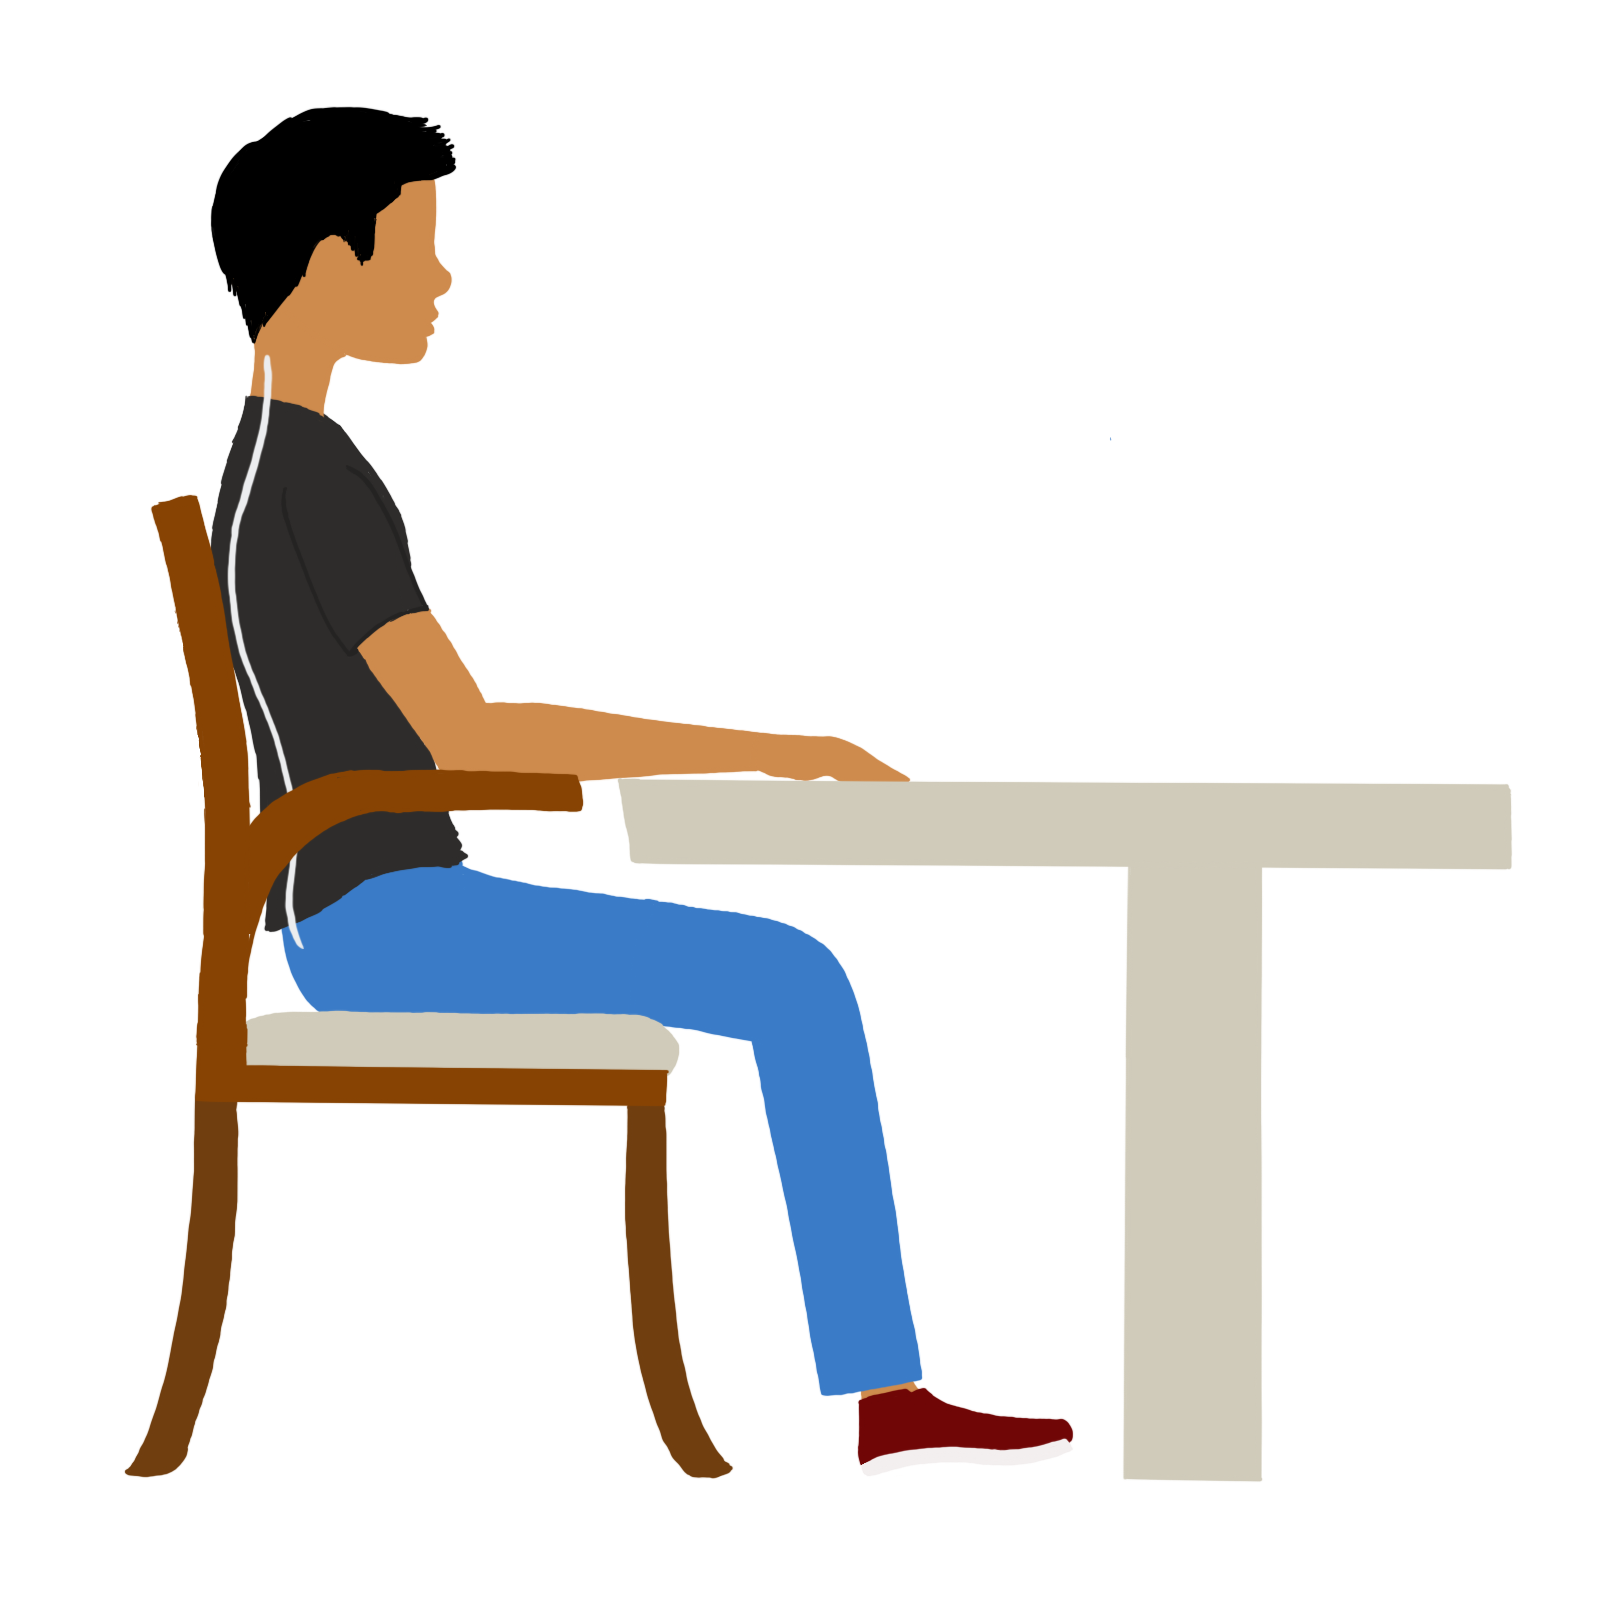
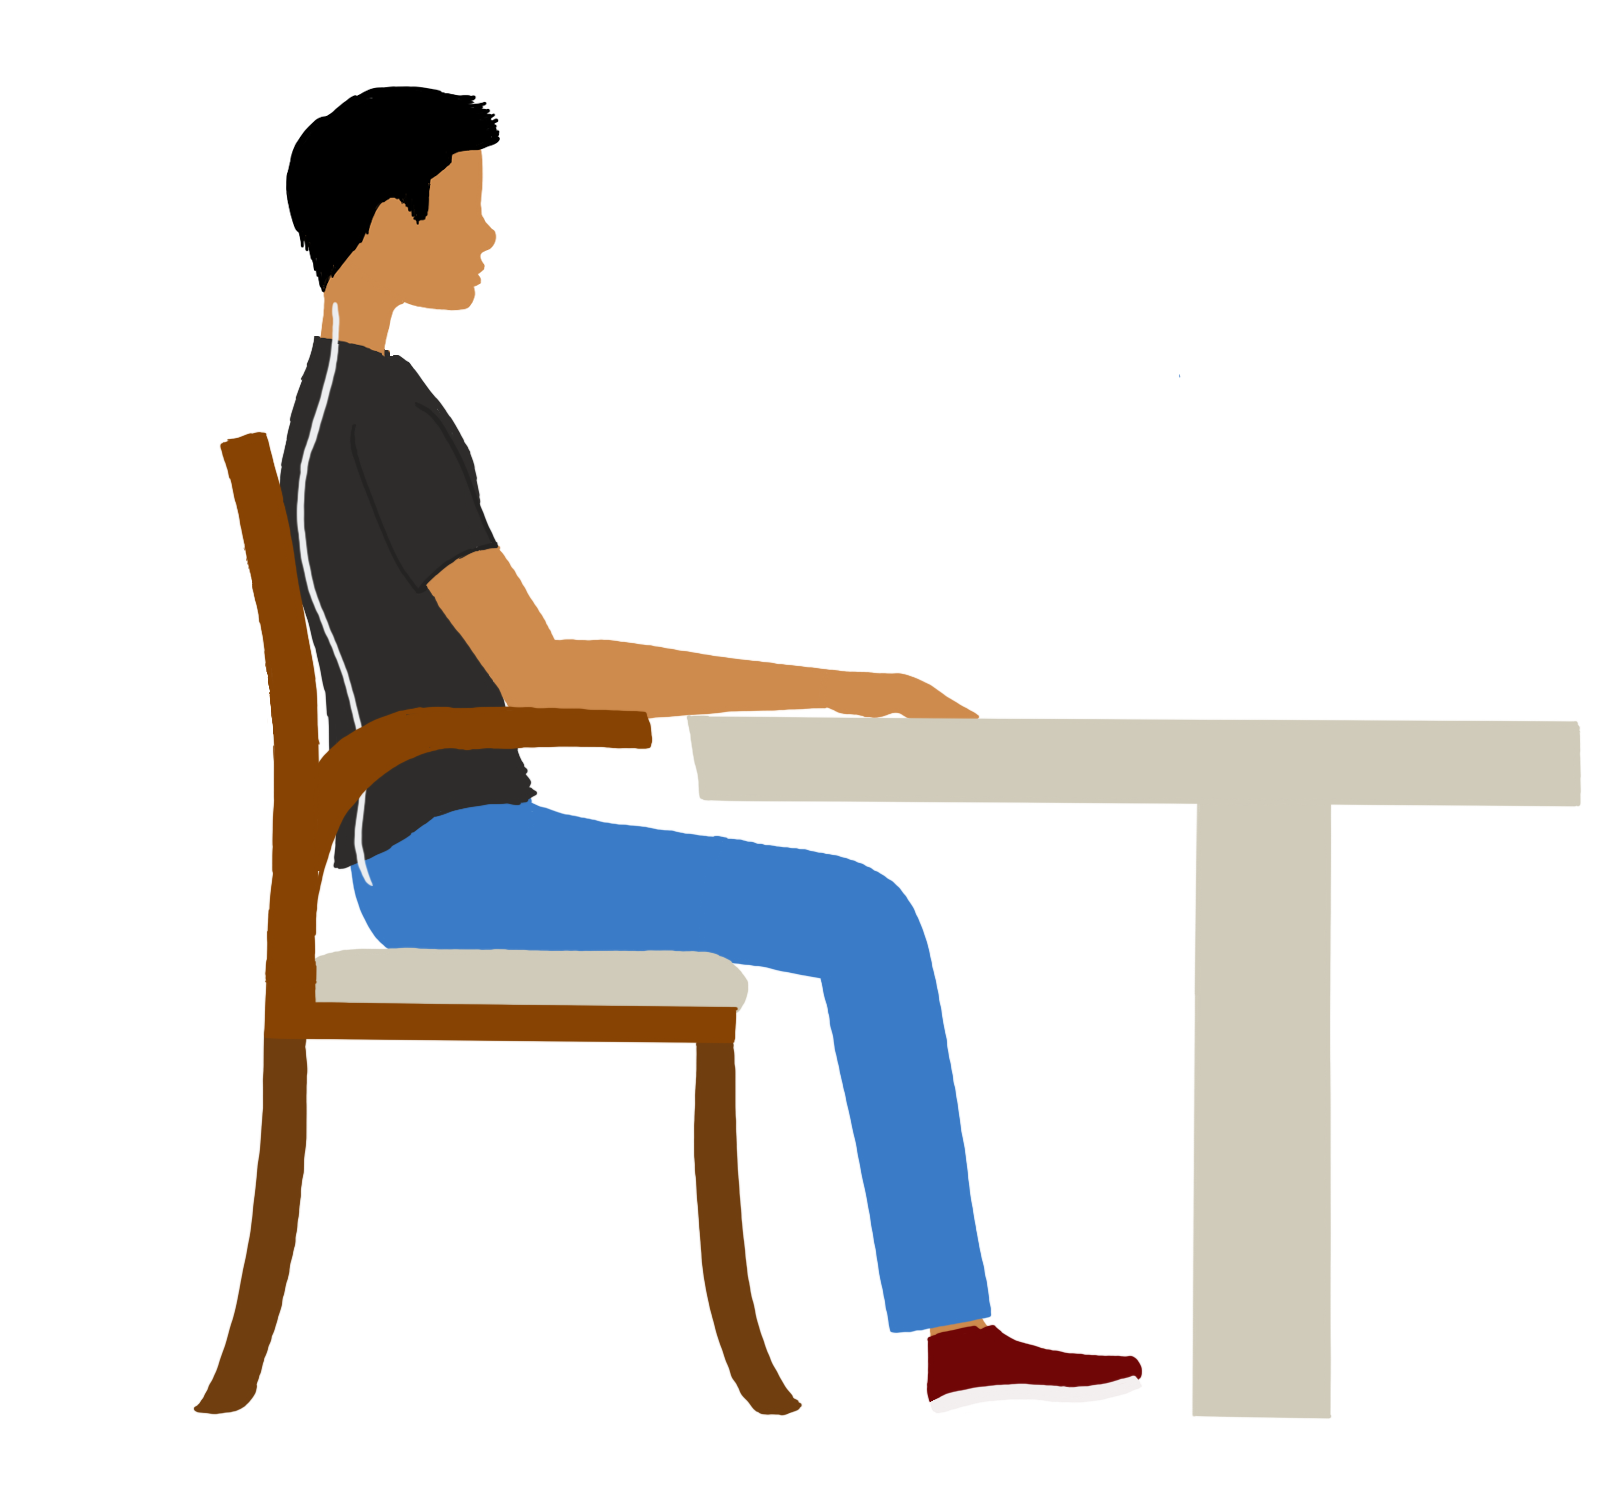
Added Back Info

Changed region(s): [[0.062, 0.0613, 0.9913, 0.9507]]

diff --git a/my-app/src/BackInfo.js b/my-app/src/BackInfo.js
@@ -1,0 +1,48 @@
+import './InfoDisplay.css';
+
+import { FontAwesomeIcon } from '@fortawesome/react-fontawesome';
+import { faCheckCircle } from '@fortawesome/free-solid-svg-icons';
+import { faTimesCircle } from '@fortawesome/free-solid-svg-icons';
+
+import backGood from './images/back_good_posture.png';
+import backBad from './images/back_good_posture.png';
+import backStretch from './images/back_stretch.png';
+
+
+function BackInfo() {
+  return (
+    <div className="neck">
+        <p>
+        Blurb
+
+        </p>
+
+        <div className="back-posture">
+            <div className="back-posture-good">
+                <img src={backBad} width="300px"></img>   
+                <FontAwesomeIcon className = "times-wrist" size={"lg"} icon={faTimesCircle} color="#FF3838"/>
+                <div className="captions-box"> <p> Bad posture: Slouching forward too much or leaning too far back can create problems. </p>
+                    </div>
+            </div>
+
+            <div className="back-posture-bad">
+                <img src={backGood} width="300px"></img>
+                <FontAwesomeIcon className = "check-wrist" size={"lg"} icon={faCheckCircle} color="#7BEC22"/>
+                <div className="captions-box">  <p> Good posture: Sit up with your back straight and your shoulders back. Keep your feet flat on the 
+                                                    floor and distribute your body weight evenly on both hips </p> 
+                    </div>
+            </div>
+        </div>
+        <p>
+            Stretch often. Try turning your body to both sides or stretching your arm behind your back. Yoga can also help.
+        </p>
+
+        <div className="standalone-img-box">
+            <img src={backStretch} width="250px"></img>
+        </div>
+
+    </div>
+  );
+}
+
+export default BackInfo;

diff --git a/my-app/src/NeckInfo.js b/my-app/src/NeckInfo.js
@@ -28,20 +28,19 @@ function NeckInfo() {
         </p>
 
         <div className="neck-posture">
-            <img src={neckBad} width="200px"></img>   
-            <img src={neckGood} width="200px"></img>
-        </div>
+            <div className="neck-posture-good">
+                <img src={neckBad} width="200px"></img>   
+                <FontAwesomeIcon className = "times-wrist" size={"lg"} icon={faTimesCircle} color="#FF3838"/>
+                <div className="captions-box"> <p> Bad posture: The neck is tilted forward and down at the phone </p>
+                    </div>
+            </div>
 
-        <div className="labels">
-            <FontAwesomeIcon className = "times-wrist" size={"lg"} icon={faTimesCircle} color="#FF3838"/>
-            <FontAwesomeIcon className = "check-wrist" size={"lg"} icon={faCheckCircle} color="#7BEC22"/>
-        </div>
-
-        <div className="captions">
-            <div className="captions-box"> <p> Bad posture: The neck is tilted forward and down at the phone </p>
-                </div>
-            <div className="captions-box">  <p> Good posture: The phone is raised to eye level so that we can keep our necks align. </p>
-                </div>
+            <div className="neck-posture-bad">
+                <img src={neckGood} width="200px"></img>
+                <FontAwesomeIcon className = "check-wrist" size={"lg"} icon={faCheckCircle} color="#7BEC22"/>
+                <div className="captions-box">  <p> Good posture: The phone is raised to eye level so that we can keep our necks align. </p>
+                    </div>
+            </div>
         </div>
 
         <p>

diff --git a/my-app/src/InfoDisplay.js b/my-app/src/InfoDisplay.js
@@ -2,6 +2,7 @@ import React from 'react';
 
 import WristInfo from './WristInfo.js';
 import NeckInfo from './NeckInfo.js';
+import BackInfo from './BackInfo.js';
 
 
 class InfoDisplay extends React.Component {
@@ -29,7 +30,7 @@ class InfoDisplay extends React.Component {
 
         switch(this.props.info) {
             case 'wrist':
-                headerText = <p>Wrist Injuries</p>
+                headerText = <p>Let's Learn about the Wrist!</p>
                 contentText = <WristInfo/>
                 break;
             case 'neck':
@@ -37,16 +38,14 @@ class InfoDisplay extends React.Component {
                 contentText = <NeckInfo/>
                 break;
             case 'eye':
-                headerText = <p>Eye Injuries</p>
+                headerText = <p>Let's Learn about the Eyes!</p>
                 contentText = 
                 <div>
                 </div>
                 break;
             case 'back':
-                headerText = <p>Back Injuries</p>
-                contentText = 
-                <div>
-                </div>
+                headerText = <p>Let's Learn about the Back!</p>
+                contentText = <BackInfo />
                 break;
             default:
                 headerText = <p>Welcome to our final project for PLME0400.</p>

diff --git a/my-app/src/InfoDisplay.css b/my-app/src/InfoDisplay.css
@@ -1,3 +1,4 @@
+/* Miscellaneous things used for info pages (may delete later)*/
 .labels {
     display: flex;
     justify-content: space-around;
@@ -11,21 +12,46 @@
 }
 
 .captions-box {
-    width: 200px;
+    color: grey;
+    font-size: 14px;
+    padding: 15px;
+    /* width: 200px;
     margin-left: 20px;
-    margin-right: 20px;
+    margin-right: 20px; */
 }
 
+.standalone-img-box {
+    text-align: center;
+}
+
+/* --------------- Wrist ---------------*/
 .keyboard, .mouse {
     display: flex;
     justify-content: center;
 }
 
+/* --------------- Neck --------------- */
 .neck-posture {
     display: flex;
     justify-content: center;
 }
 
-.standalone-img-box {
-    text-align: center;
+.neck-posture-good, .neck-posture-bad {
+    width: 300px;
+    display: flex;
+    flex-direction: column;
+    align-items: center;
+}
+
+/* --------------- Back --------------- */
+.back-posture {
+    display: flex;
+    justify-content: center;
+}
+
+.back-posture-good, .back-posture-bad {
+    width: 300px;
+    display: flex;
+    flex-direction: column;
+    align-items: center;
 }
